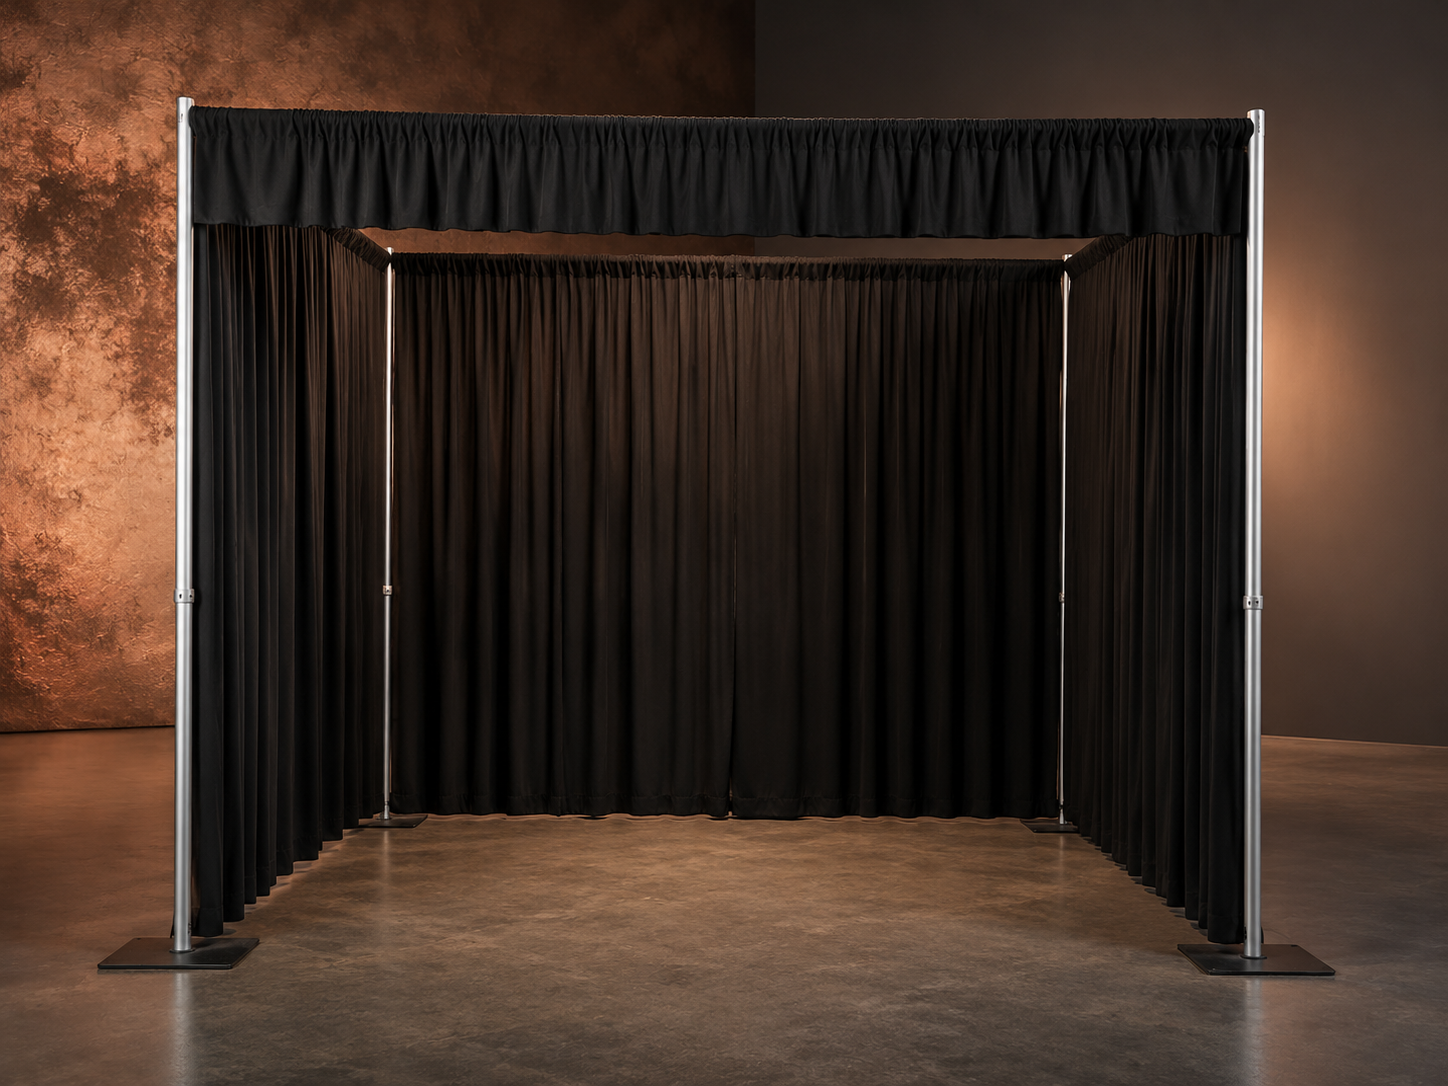
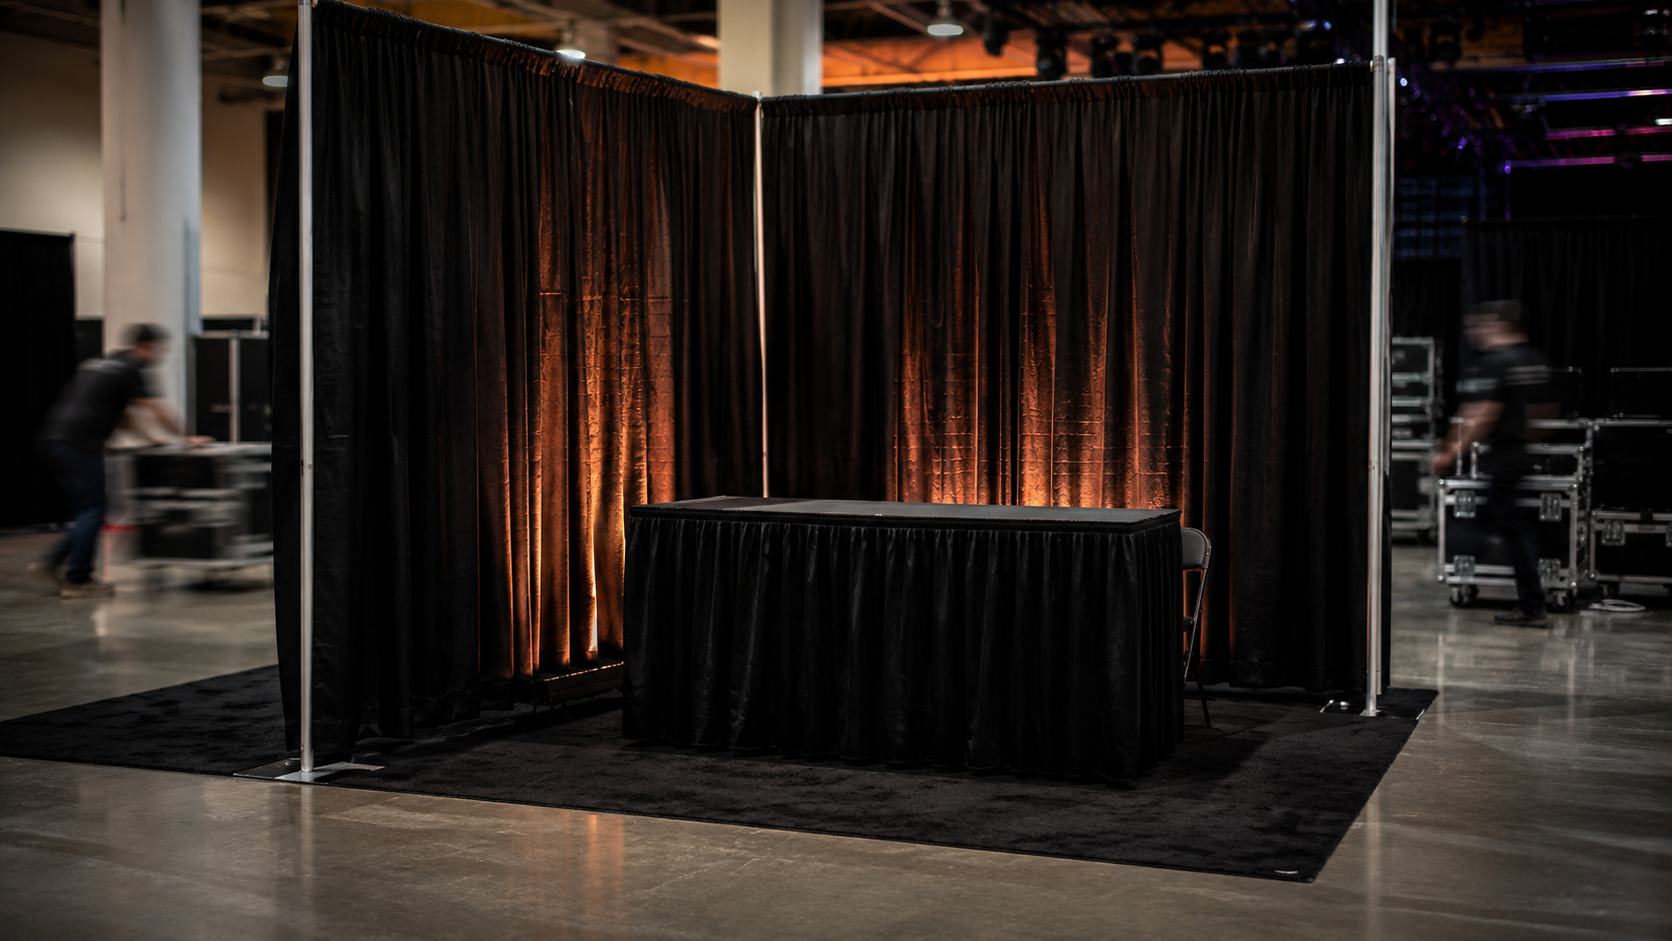
Big update

diff --git a/index.html b/index.html
@@ -277,10 +277,7 @@
 
     <!-- Full-bleed hero photo -->
     <div class="absolute inset-0">
-      <picture>
-        <source srcset="images/hero.webp" type="image/webp">
-        <img src="images/hero.png" alt="Black pipe-and-drape booth wall on a trade show floor" width="1672" height="941" fetchpriority="high" class="absolute inset-0 w-full h-full object-cover">
-      </picture>
+      <img src="images/hero.png" alt="Black pipe-and-drape booth wall on a trade show floor" width="1672" height="941" fetchpriority="high" class="absolute inset-0 w-full h-full object-cover">
       <!-- Gradient overlay: darker on the left where the H1 sits, lighter on the right so the image remains visible behind the form -->
       <div class="absolute inset-0" style="background: linear-gradient(100deg, rgba(10,10,10,0.88) 0%, rgba(10,10,10,0.55) 55%, rgba(10,10,10,0.45) 100%);"></div>
       <!-- Vertical fade so the transparent header is still legible at the top -->
@@ -457,10 +454,7 @@
       <!-- PIPE &AMP; UPRIGHTS -->
       <div id="tab-uprights" role="tabpanel" class="tab-panel grid lg:grid-cols-12 gap-8 lg:gap-12 items-center">
         <div class="aspect-[4/3] lg:col-span-7 rounded-xl overflow-hidden bg-ink-2 shadow-card">
-          <picture>
-            <source srcset="images/pipes.webp" type="image/webp">
-            <img src="images/pipes.png" alt="Telescoping aluminum pipe-and-drape uprights stacked in a rental warehouse" width="1448" height="1086" loading="lazy" class="w-full h-full object-cover">
-          </picture>
+          <img src="images/pipes.png" alt="Telescoping aluminum pipe-and-drape uprights stacked in a rental warehouse" width="1448" height="1086" loading="lazy" class="w-full h-full object-cover">
         </div>
         <div class="lg:col-span-5">
           <p class="eyebrow text-copper mb-3">01 · Pipe &amp; Uprights</p>
@@ -478,10 +472,7 @@
       <!-- DRAPE PANELS -->
       <div id="tab-drape" role="tabpanel" class="tab-panel hidden grid lg:grid-cols-12 gap-8 lg:gap-12 items-center">
         <div class="aspect-[4/3] lg:col-span-7 rounded-xl overflow-hidden bg-ink-2 shadow-card">
-          <picture>
-            <source srcset="images/drape.webp" type="image/webp">
-            <img src="images/drape.png" alt="Black pipe-pocket drape panels hanging on a pipe-and-drape booth wall" width="1448" height="1086" loading="lazy" class="w-full h-full object-cover">
-          </picture>
+          <img src="images/drape.png" alt="Black pipe-pocket drape panels hanging on a pipe-and-drape booth wall" width="1448" height="1086" loading="lazy" class="w-full h-full object-cover">
         </div>
         <div class="lg:col-span-5">
           <p class="eyebrow text-copper mb-3">02 · Drape Panels</p>
@@ -499,10 +490,7 @@
       <!-- BASES &AMP; HARDWARE -->
       <div id="tab-bases" role="tabpanel" class="tab-panel hidden grid lg:grid-cols-12 gap-8 lg:gap-12 items-center">
         <div class="aspect-[4/3] lg:col-span-7 rounded-xl overflow-hidden bg-ink-2 shadow-card">
-          <picture>
-            <source srcset="images/bases.webp" type="image/webp">
-            <img src="images/bases.png" alt="Heavy steel pipe-and-drape base plates with locking caster wheels" width="1448" height="1086" loading="lazy" class="w-full h-full object-cover">
-          </picture>
+          <img src="images/bases.png" alt="Heavy steel pipe-and-drape base plates with locking caster wheels" width="1448" height="1086" loading="lazy" class="w-full h-full object-cover">
         </div>
         <div class="lg:col-span-5">
           <p class="eyebrow text-copper mb-3">03 · Bases &amp; Hardware</p>
@@ -520,10 +508,7 @@
       <!-- THE COMPLETE BOOTH KIT -->
       <div id="tab-kit" role="tabpanel" class="tab-panel hidden grid lg:grid-cols-12 gap-8 lg:gap-12 items-center">
         <div class="aspect-[4/3] lg:col-span-7 rounded-xl overflow-hidden bg-ink-2 shadow-card">
-          <picture>
-            <source srcset="images/kit.webp" type="image/webp">
-            <img src="images/kit.png" alt="Complete pipe-and-drape booth kit: pipes, drape, and bases ready for setup" width="1448" height="1086" loading="lazy" class="w-full h-full object-cover">
-          </picture>
+          <img src="images/kit.png" alt="Complete pipe-and-drape booth kit: pipes, drape, and bases ready for setup" width="1448" height="1086" loading="lazy" class="w-full h-full object-cover">
         </div>
         <div class="lg:col-span-5">
           <p class="eyebrow text-copper mb-3">04 · The Complete Booth Kit</p>